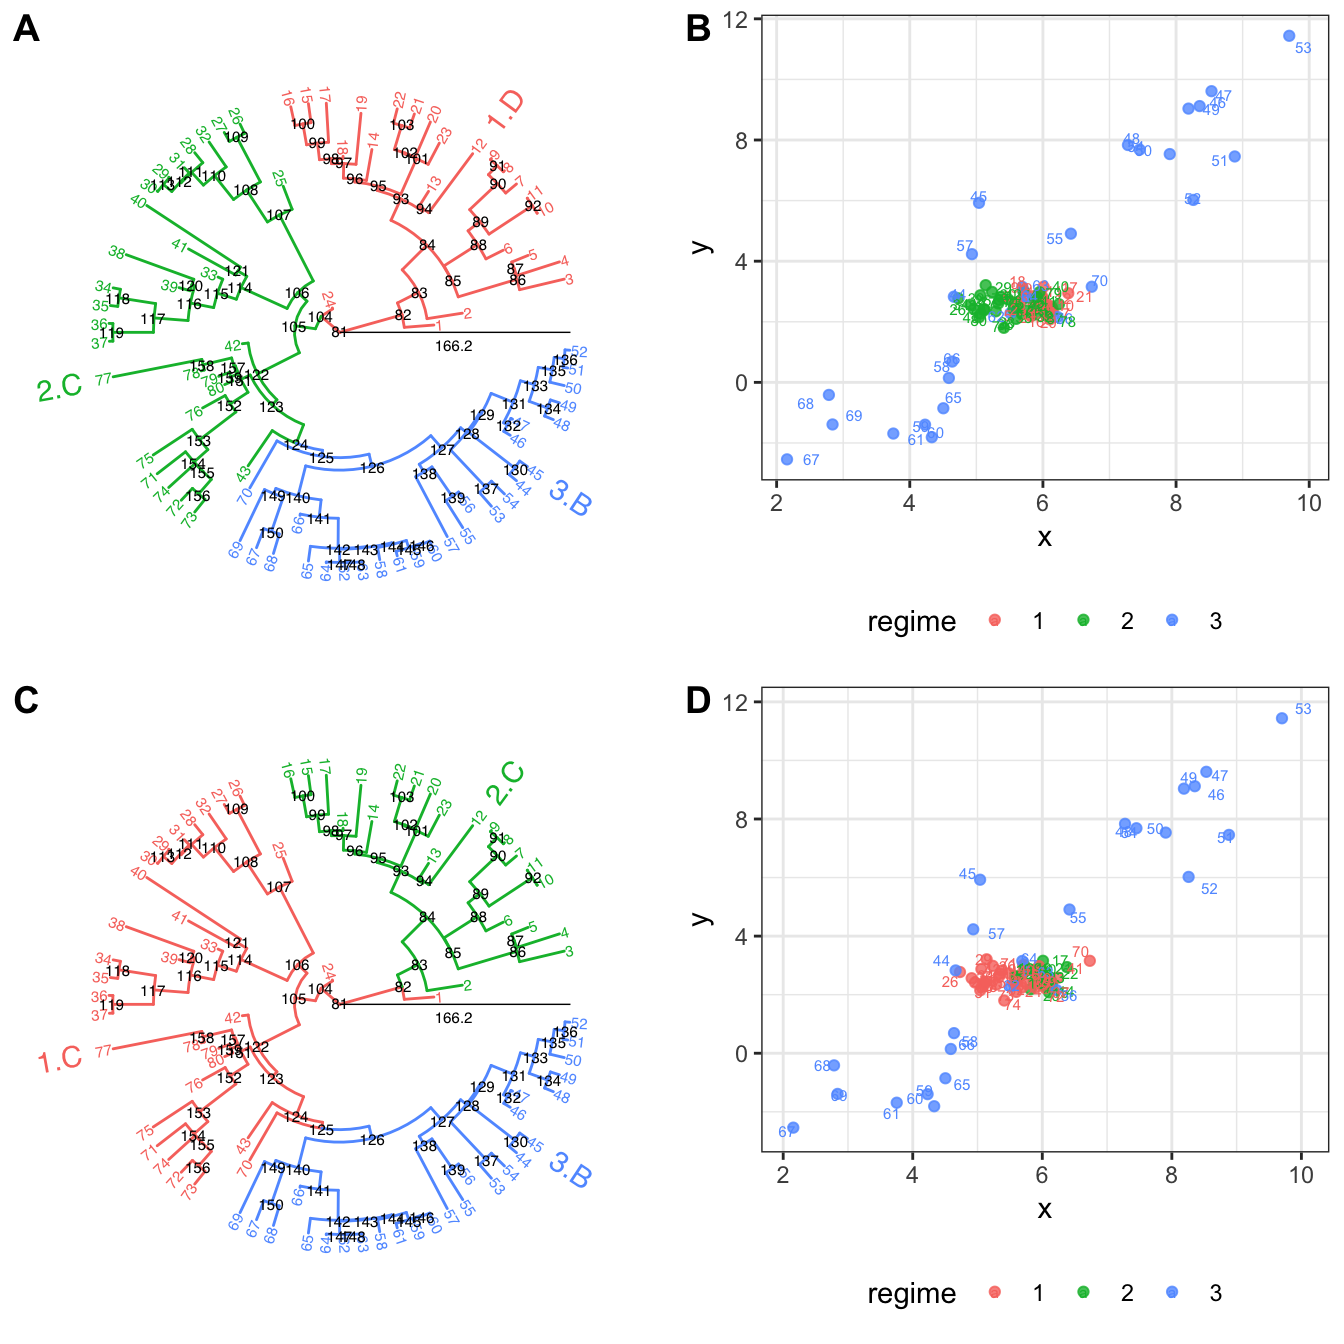
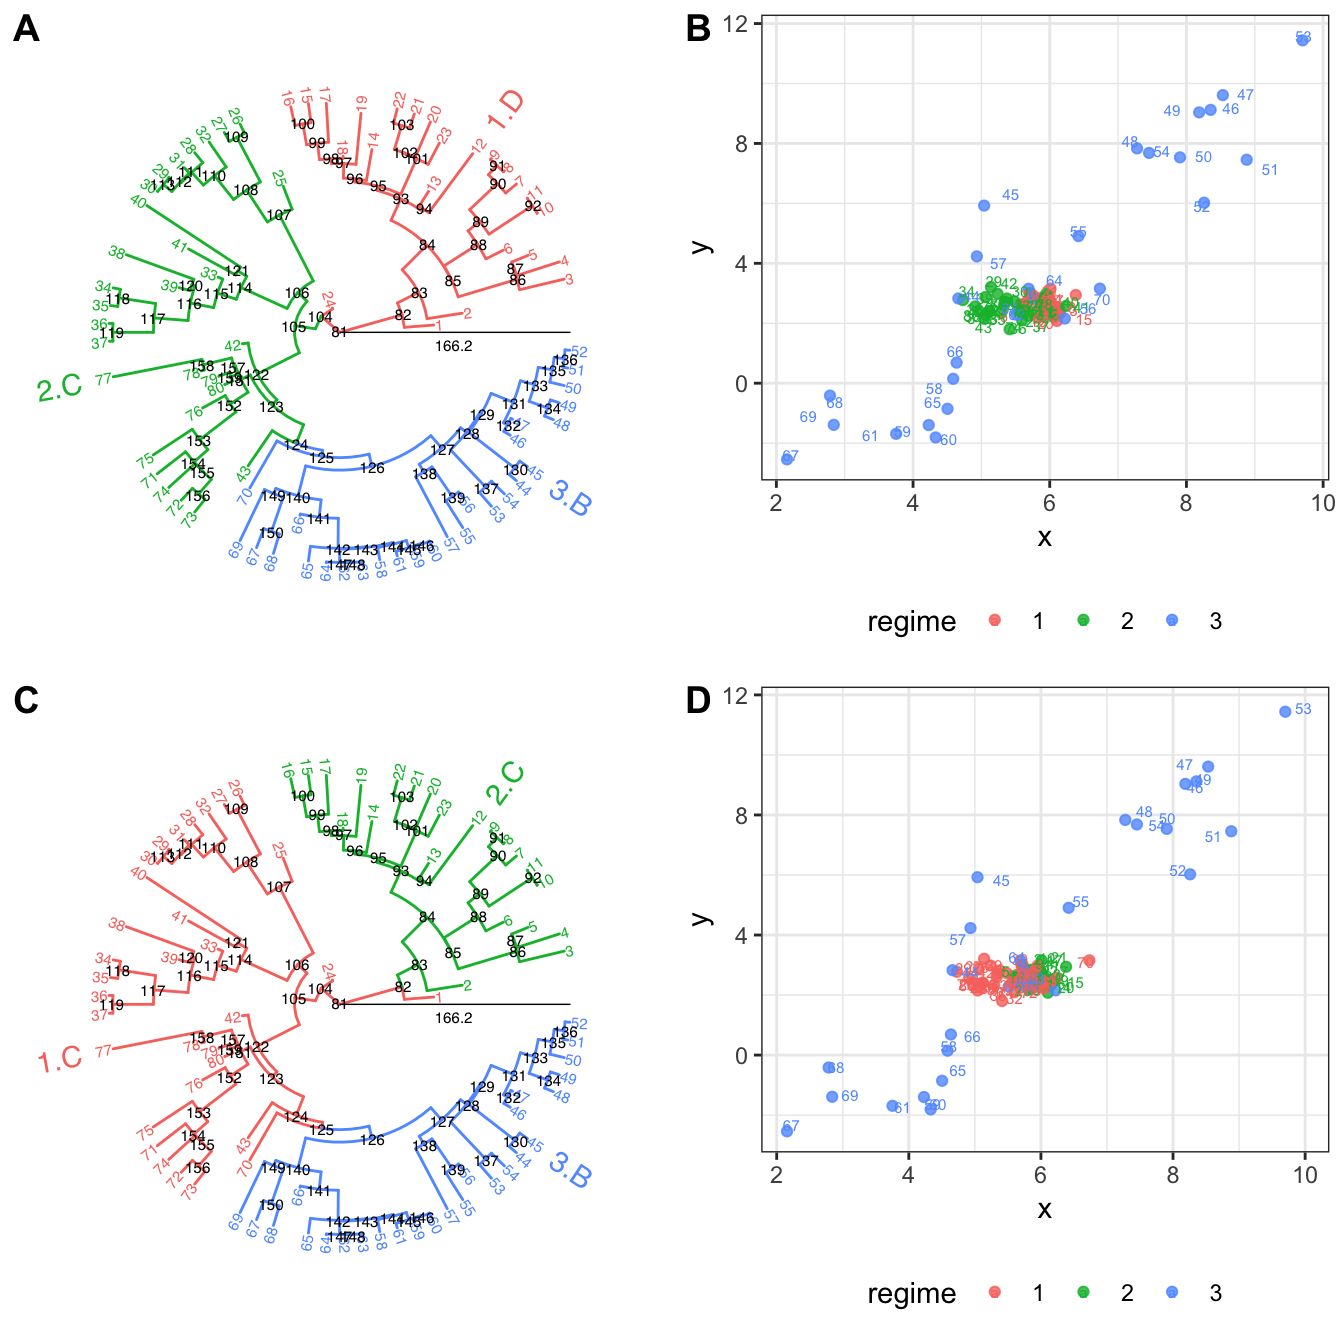
updated pcmfitmixed.Rmd

diff --git a/docs/articles/pcmfitmixed.html b/docs/articles/pcmfitmixed.html
@@ -241,63 +241,13 @@ knitr<span class="op">::</span><span class="kw"><a href="https://www.rdocumentat
 </tr>
 </tbody>
 </table>
+<div class="sourceCode"><pre class="sourceCode r"><code class="sourceCode r"><span class="kw"><a href="http://venelin.github.io/PCMBase/reference/PCMMapModelTypesToRegimes.html">PCMMapModelTypesToRegimes</a></span>(modelTrue, <span class="kw"><a href="https://www.rdocumentation.org/packages/base/topics/attr">attr</a></span>(modelTrue, <span class="st">"tree"</span>))
+<span class="co">#&gt;  81 105 125 </span>
+<span class="co">#&gt;   4   3   2</span></code></pre></div>
 <div class="sourceCode"><pre class="sourceCode r"><code class="sourceCode r"><span class="kw"><a href="http://venelin.github.io/PCMBase/reference/PCMMapModelTypesToRegimes.html">PCMMapModelTypesToRegimes</a></span>(
   bestFit<span class="op">$</span>inferredModel, <span class="kw"><a href="https://www.rdocumentation.org/packages/base/topics/attr">attr</a></span>(bestFit<span class="op">$</span>inferredModel, <span class="st">"tree"</span>))
 <span class="co">#&gt;  81  83 126 </span>
 <span class="co">#&gt;   3   3   2</span></code></pre></div>
-<div class="sourceCode"><pre class="sourceCode r"><code class="sourceCode r"><span class="kw"><a href="http://venelin.github.io/PCMBase/reference/PCMMapModelTypesToRegimes.html">PCMMapModelTypesToRegimes</a></span>(modelTrue, <span class="kw"><a href="https://www.rdocumentation.org/packages/base/topics/attr">attr</a></span>(modelTrue, <span class="st">"tree"</span>))
-<span class="co">#&gt;  81 105 125 </span>
-<span class="co">#&gt;   4   3   2</span></code></pre></div>
-<div class="sourceCode"><pre class="sourceCode r"><code class="sourceCode r">
-plTree &lt;-<span class="st"> </span><span class="kw"><a href="http://venelin.github.io/PCMBase/reference/PCMTreePlot.html">PCMTreePlot</a></span>(<span class="kw"><a href="https://www.rdocumentation.org/packages/base/topics/attr">attr</a></span>(modelTrue, <span class="st">"tree"</span>), <span class="dt">layout=</span><span class="st">"fan"</span>) <span class="op">%&lt;+%</span><span class="st"> </span>
-<span class="st">  </span><span class="kw"><a href="https://www.rdocumentation.org/packages/data.table/topics/data.table">data.table</a></span>(
-    <span class="dt">node =</span> <span class="kw"><a href="https://www.rdocumentation.org/packages/base/topics/c">c</a></span>(<span class="dv">12</span>, <span class="dv">77</span>, <span class="dv">45</span>), 
-    <span class="dt">part.model =</span> <span class="kw"><a href="https://www.rdocumentation.org/packages/base/topics/c">c</a></span>(<span class="st">" 1.D "</span>, <span class="st">" 2.C "</span>, <span class="st">" 3.B "</span>),
-    <span class="dt">offset =</span> <span class="dv">5</span>) <span class="op">+</span><span class="st"> </span>
-<span class="st">  </span><span class="kw"><a href="https://www.rdocumentation.org/packages/ggtree/topics/geom_tiplab2">geom_tiplab2</a></span>(<span class="dt">size =</span> <span class="dv">2</span>) <span class="op">+</span><span class="st"> </span>
-<span class="st">  </span><span class="kw"><a href="https://www.rdocumentation.org/packages/ggtree/topics/geom_tiplab2">geom_tiplab2</a></span>(<span class="kw"><a href="https://www.rdocumentation.org/packages/ggtree/topics/reexports">aes</a></span>(<span class="dt">label =</span> part.model), <span class="dt">offset =</span> <span class="dv">16</span>) <span class="op">+</span><span class="st"> </span>
-<span class="st">  </span><span class="kw"><a href="https://www.rdocumentation.org/packages/ggtree/topics/geom_nodelab">geom_nodelab</a></span>(<span class="dt">size =</span> <span class="dv">2</span>, <span class="dt">color =</span> <span class="st">"black"</span>) <span class="op">+</span><span class="st"> </span>
-<span class="st">  </span><span class="kw"><a href="https://www.rdocumentation.org/packages/ggtree/topics/geom_treescale">geom_treescale</a></span>(
-    <span class="dt">width =</span> <span class="kw"><a href="https://www.rdocumentation.org/packages/base/topics/Extremes">max</a></span>(<span class="kw"><a href="http://venelin.github.io/PCMBase/reference/PCMTreeNodeTimes.html">PCMTreeNodeTimes</a></span>(<span class="kw"><a href="https://www.rdocumentation.org/packages/base/topics/attr">attr</a></span>(modelTrue, <span class="st">"tree"</span>))), <span class="dt">x =</span> <span class="dv">0</span>, 
-    <span class="dt">linesize =</span> .<span class="dv">25</span>, <span class="dt">fontsize =</span> <span class="dv">2</span>, <span class="dt">offset =</span> <span class="dv">79</span>)
-
-plX &lt;-<span class="st"> </span><span class="kw"><a href="http://venelin.github.io/PCMBase/reference/PCMPlotTraitData2D.html">PCMPlotTraitData2D</a></span>(
-  X[, <span class="kw"><a href="https://www.rdocumentation.org/packages/base/topics/seq">seq_len</a></span>(<span class="kw"><a href="http://venelin.github.io/PCMBase/reference/PCMTreeNumTips.html">PCMTreeNumTips</a></span>(<span class="kw"><a href="https://www.rdocumentation.org/packages/base/topics/attr">attr</a></span>(modelTrue, <span class="st">"tree"</span>)))], 
-  <span class="kw"><a href="https://www.rdocumentation.org/packages/base/topics/attr">attr</a></span>(modelTrue, <span class="st">"tree"</span>), 
-  <span class="dt">scaleSizeWithTime =</span> <span class="ot">FALSE</span>) <span class="op">+</span>
-<span class="st">  </span><span class="kw"><a href="https://www.rdocumentation.org/packages/ggtree/topics/reexports">geom_text</a></span>(
-    <span class="kw"><a href="https://www.rdocumentation.org/packages/ggtree/topics/reexports">aes</a></span>(<span class="dt">x =</span> x, <span class="dt">y =</span> y, <span class="dt">label =</span> id, <span class="dt">color =</span> regime), 
-    <span class="dt">size=</span><span class="dv">2</span>, 
-    <span class="dt">position =</span> <span class="kw"><a href="https://www.rdocumentation.org/packages/ggplot2/topics/position_jitter">position_jitter</a></span>(.<span class="dv">4</span>, .<span class="dv">4</span>)) <span class="op">+</span>
-<span class="st">  </span><span class="kw"><a href="https://www.rdocumentation.org/packages/ggplot2/topics/ggtheme">theme_bw</a></span>() <span class="op">+</span>
-<span class="st">  </span><span class="kw"><a href="https://www.rdocumentation.org/packages/ggtree/topics/reexports">theme</a></span>(<span class="dt">legend.position =</span> <span class="st">"bottom"</span>)
-
-plTreeInferred &lt;-<span class="st"> </span>
-<span class="st">  </span><span class="kw"><a href="http://venelin.github.io/PCMBase/reference/PCMTreePlot.html">PCMTreePlot</a></span>(<span class="kw"><a href="https://www.rdocumentation.org/packages/base/topics/attr">attr</a></span>(bestFit<span class="op">$</span>inferredModel, <span class="st">"tree"</span>), <span class="dt">layout=</span><span class="st">"fan"</span>) <span class="op">%&lt;+%</span><span class="st"> </span>
-<span class="st">  </span><span class="kw"><a href="https://www.rdocumentation.org/packages/data.table/topics/data.table">data.table</a></span>(
-    <span class="dt">node =</span> <span class="kw"><a href="https://www.rdocumentation.org/packages/base/topics/c">c</a></span>(<span class="dv">12</span>, <span class="dv">77</span>, <span class="dv">45</span>), 
-    <span class="dt">part.model =</span> <span class="kw"><a href="https://www.rdocumentation.org/packages/base/topics/c">c</a></span>(<span class="st">" 2.C "</span>, <span class="st">" 1.C "</span>, <span class="st">" 3.B "</span>),
-    <span class="dt">offset =</span> <span class="dv">5</span>) <span class="op">+</span><span class="st"> </span>
-<span class="st">  </span><span class="kw"><a href="https://www.rdocumentation.org/packages/ggtree/topics/geom_tiplab2">geom_tiplab2</a></span>(<span class="dt">size =</span> <span class="dv">2</span>) <span class="op">+</span><span class="st"> </span>
-<span class="st">  </span><span class="kw"><a href="https://www.rdocumentation.org/packages/ggtree/topics/geom_tiplab2">geom_tiplab2</a></span>(<span class="kw"><a href="https://www.rdocumentation.org/packages/ggtree/topics/reexports">aes</a></span>(<span class="dt">label =</span> part.model), <span class="dt">offset =</span> <span class="dv">16</span>) <span class="op">+</span><span class="st"> </span>
-<span class="st">  </span><span class="kw"><a href="https://www.rdocumentation.org/packages/ggtree/topics/geom_nodelab">geom_nodelab</a></span>(<span class="dt">size =</span> <span class="dv">2</span>, <span class="dt">color =</span> <span class="st">"black"</span>) <span class="op">+</span><span class="st"> </span>
-<span class="st">  </span><span class="kw"><a href="https://www.rdocumentation.org/packages/ggtree/topics/geom_treescale">geom_treescale</a></span>(
-    <span class="dt">width =</span> <span class="kw"><a href="https://www.rdocumentation.org/packages/base/topics/Extremes">max</a></span>(<span class="kw"><a href="http://venelin.github.io/PCMBase/reference/PCMTreeNodeTimes.html">PCMTreeNodeTimes</a></span>(<span class="kw"><a href="https://www.rdocumentation.org/packages/base/topics/attr">attr</a></span>(bestFit<span class="op">$</span>inferredModel, <span class="st">"tree"</span>))), <span class="dt">x =</span> <span class="dv">0</span>, 
-    <span class="dt">linesize =</span> .<span class="dv">25</span>, <span class="dt">fontsize =</span> <span class="dv">2</span>, <span class="dt">offset =</span> <span class="dv">79</span>)
-
-plXInferred &lt;-<span class="st"> </span><span class="kw"><a href="http://venelin.github.io/PCMBase/reference/PCMPlotTraitData2D.html">PCMPlotTraitData2D</a></span>(
-  X[, <span class="kw"><a href="https://www.rdocumentation.org/packages/base/topics/seq">seq_len</a></span>(<span class="kw"><a href="http://venelin.github.io/PCMBase/reference/PCMTreeNumTips.html">PCMTreeNumTips</a></span>(<span class="kw"><a href="https://www.rdocumentation.org/packages/base/topics/attr">attr</a></span>(bestFit<span class="op">$</span>inferredModel, <span class="st">"tree"</span>)))], 
-  <span class="kw"><a href="https://www.rdocumentation.org/packages/base/topics/attr">attr</a></span>(bestFit<span class="op">$</span>inferredModel, <span class="st">"tree"</span>), 
-  <span class="dt">scaleSizeWithTime =</span> <span class="ot">FALSE</span>) <span class="op">+</span>
-<span class="st">  </span><span class="kw"><a href="https://www.rdocumentation.org/packages/ggtree/topics/reexports">geom_text</a></span>(
-    <span class="kw"><a href="https://www.rdocumentation.org/packages/ggtree/topics/reexports">aes</a></span>(<span class="dt">x =</span> x, <span class="dt">y =</span> y, <span class="dt">label =</span> id, <span class="dt">color =</span> regime), 
-    <span class="dt">size=</span><span class="dv">2</span>, 
-    <span class="dt">position =</span> <span class="kw"><a href="https://www.rdocumentation.org/packages/ggplot2/topics/position_jitter">position_jitter</a></span>(.<span class="dv">4</span>, .<span class="dv">4</span>)) <span class="op">+</span>
-<span class="st">  </span><span class="kw"><a href="https://www.rdocumentation.org/packages/ggplot2/topics/ggtheme">theme_bw</a></span>() <span class="op">+</span>
-<span class="st">  </span><span class="kw"><a href="https://www.rdocumentation.org/packages/ggtree/topics/reexports">theme</a></span>(<span class="dt">legend.position =</span> <span class="st">"bottom"</span>)
-
-cowplot<span class="op">::</span><span class="kw"><a href="https://www.rdocumentation.org/packages/cowplot/topics/plot_grid">plot_grid</a></span>(
-  plTree, plX, plTreeInferred, plXInferred, <span class="dt">labels =</span> LETTERS[<span class="dv">1</span><span class="op">:</span><span class="dv">4</span>])</code></pre></div>
 <div class="figure">
 <img src="pcmfitmixed_files/figure-html/unnamed-chunk-10-1.png" alt="**Example phylogenetic comparative data.** **A**: a tree of 80 tips partitioned in three evolutionary regimes. Each evolutionary regime is denoted by #.T, where # is the regime identifier and T is the evolutionary model type associated with this regime (a model type among A, ..., F). **B**:  bivariate trait values at the tips of the tree. **C** and **D**: Analogical to **A** and **B** according to the MGPM found using the AIC score as a criterion." width="672"><p class="caption">
 <strong>Example phylogenetic comparative data.</strong> <strong>A</strong>: a tree of 80 tips partitioned in three evolutionary regimes. Each evolutionary regime is denoted by #.T, where # is the regime identifier and T is the evolutionary model type associated with this regime (a model type among A, …, F). <strong>B</strong>: bivariate trait values at the tips of the tree. <strong>C</strong> and <strong>D</strong>: Analogical to <strong>A</strong> and <strong>B</strong> according to the MGPM found using the AIC score as a criterion.
